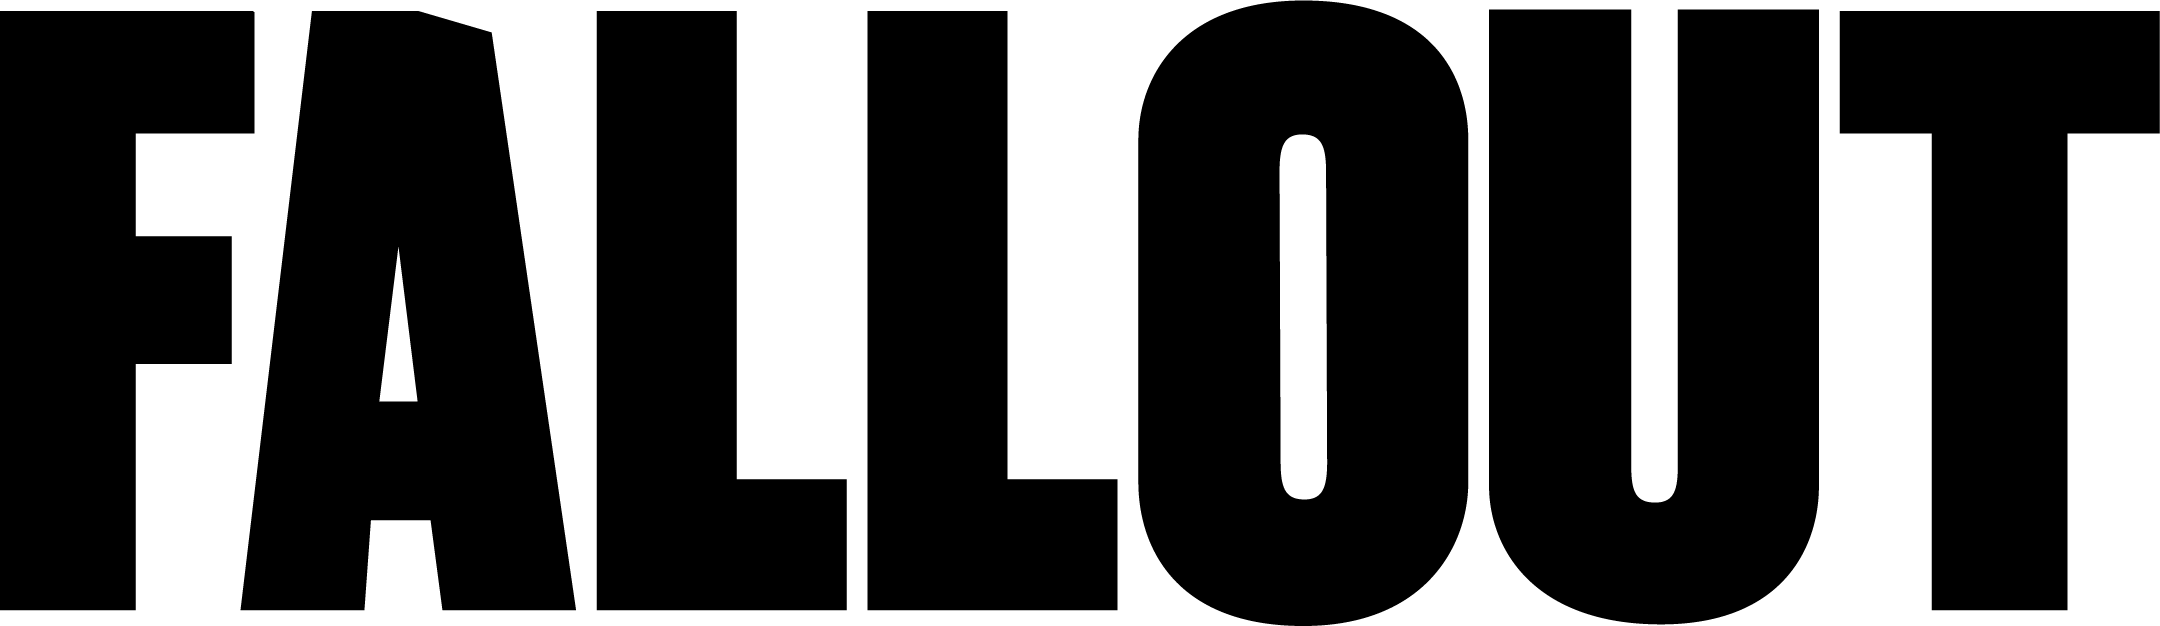
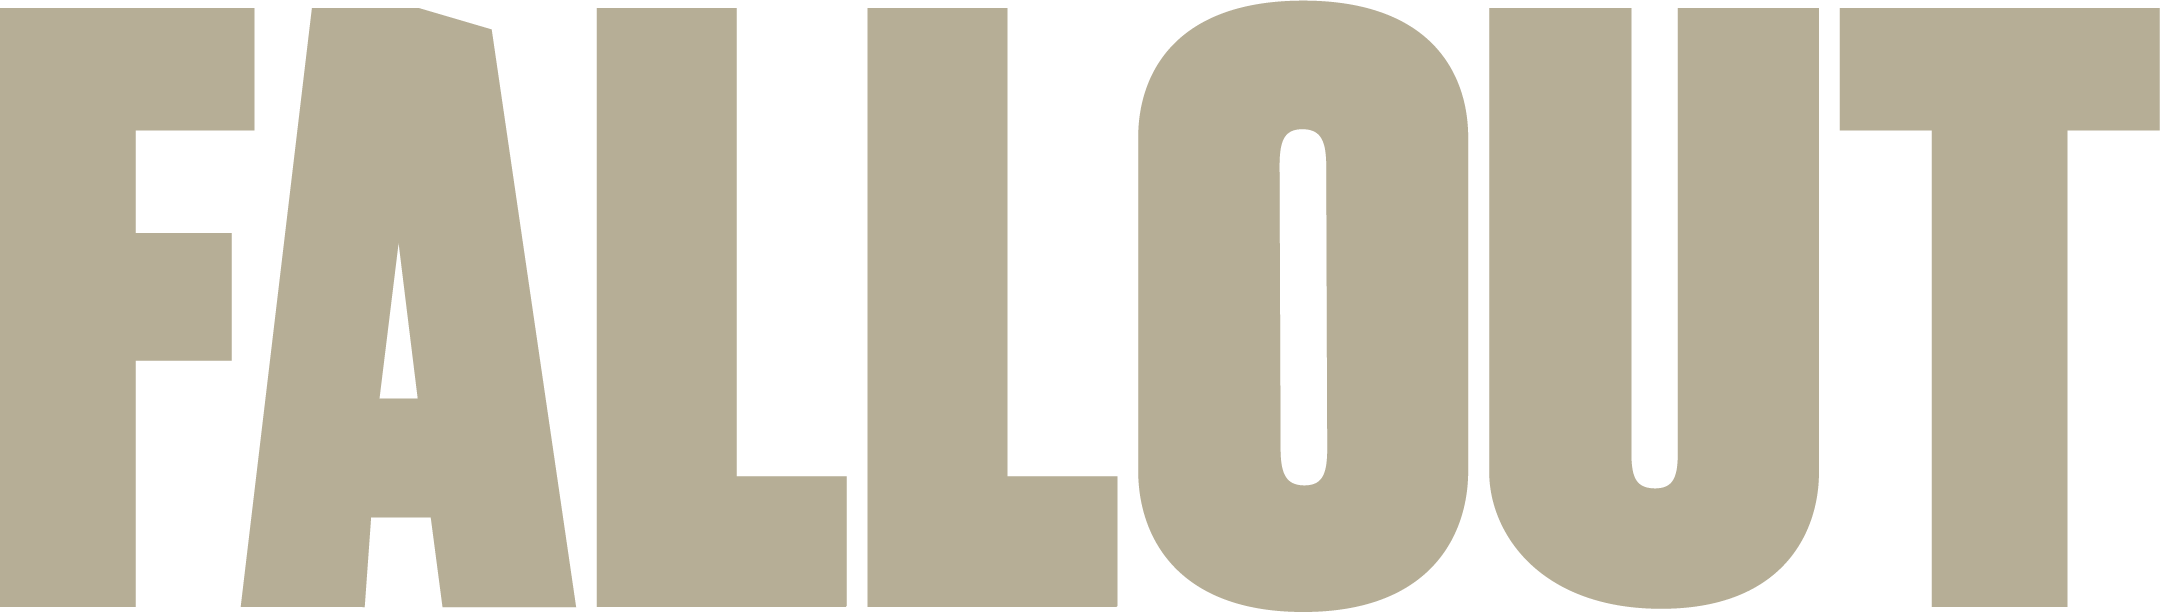
Update title rendering

diff --git a/sketch.js b/sketch.js
@@ -22,13 +22,17 @@ function setup() {
     y: floor(height / 4),
   };
 
-  placeSubTitle();
   placeTitle();
   newShape(); // Create a single shape so that the server does not crash on reload.
 }
 
 function draw() {
   background("rgba(233, 221, 195, 1)");
+  const { x: titleX, y: titleY, w: titleW, h: titleH } = CONFIG.title;
+  image(title, titleX, titleY, titleW, titleH);
+  const { x: subX, y: subY, w: subW, h: subH } = CONFIG.subTitle;
+  image(subTitle, subX, subY, subW, subH);
+
   if (frameCount % CONFIG.spawnRate === 0) {
     newShape();
   }
@@ -36,12 +40,6 @@ function draw() {
     shape.render();
   }
   shapes = shapes.filter((shape) => !shape.isDead);
-
-  const { x: subX, y: subY, w: subW, h: subH } = CONFIG.subTitle;
-  image(subTitle, subX, subY, subW, subH);
-  tint(255, 80);
-  const { x: titleX, y: titleY, w: titleW, h: titleH } = CONFIG.title;
-  image(title, titleX, titleY, titleW, titleH);
 }
 
 function newShape() {
@@ -142,29 +140,29 @@ function getX(y, angleDegrees) {
   return x;
 }
 
-function placeSubTitle() {
-  let segment = CONFIG.apex.x - CONFIG.margin;
-  let imageAspectRatio = subTitle.height / subTitle.width;
-  let imageWidth = (segment * 5) / 3;
-  let imageHeight = imageWidth * imageAspectRatio;
+function placeTitle() {
+  let subtitleSegment = CONFIG.apex.x - CONFIG.margin;
+  let subTitleAspectRatio = subTitle.height / subTitle.width;
+  let subTitleWidth = (segment * 5) / 3;
+  let subTitleHeight = subTitleWidth * subTitleAspectRatio;
   // Position subtitle at 5/3 of title width to center within ampersand
   CONFIG.subTitle = {
-    w: imageWidth,
-    h: imageHeight,
+    w: subTitleWidth,
+    h: subTitleHeight,
     x: CONFIG.margin,
-    y: CONFIG.apex.y - imageHeight * 0.75,
+    y: CONFIG.apex.y - subTitleHeight * 0.75,
   };
-}
 
-function placeTitle() {
-  let imageAspectRatio = title.height / title.width;
-  let imageWidth = width - 2 * CONFIG.margin;
-  let imageHeight = imageWidth * imageAspectRatio;
+  let titleAspectRatio = title.height / title.width;
+  let leftMargin = CONFIG.margin - 2;
+  let rightMargin = CONFIG.margin;
+  let titleWidth = width - leftMargin - rightMargin;
+  let titleHeight = titleWidth * titleAspectRatio;
   CONFIG.title = {
-    w: imageWidth,
-    h: imageHeight,
-    x: CONFIG.margin,
-    y: CONFIG.margin - 1,
+    w: titleWidth,
+    h: titleHeight,
+    x: leftMargin,
+    y: CONFIG.margin,
   };
 }
 
